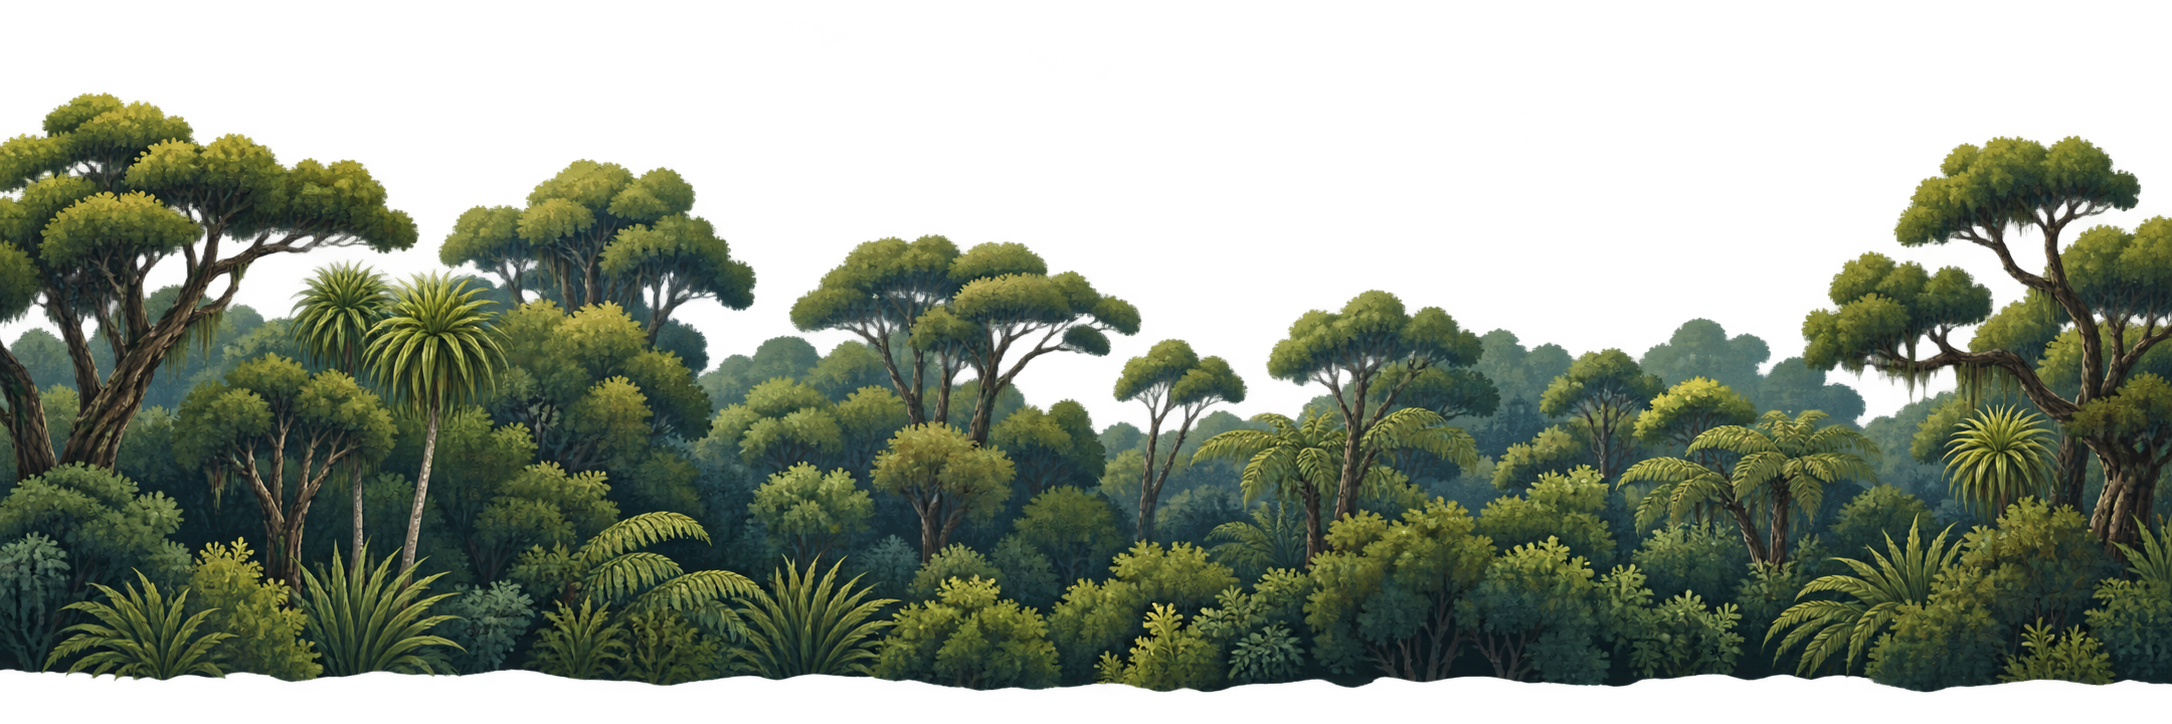
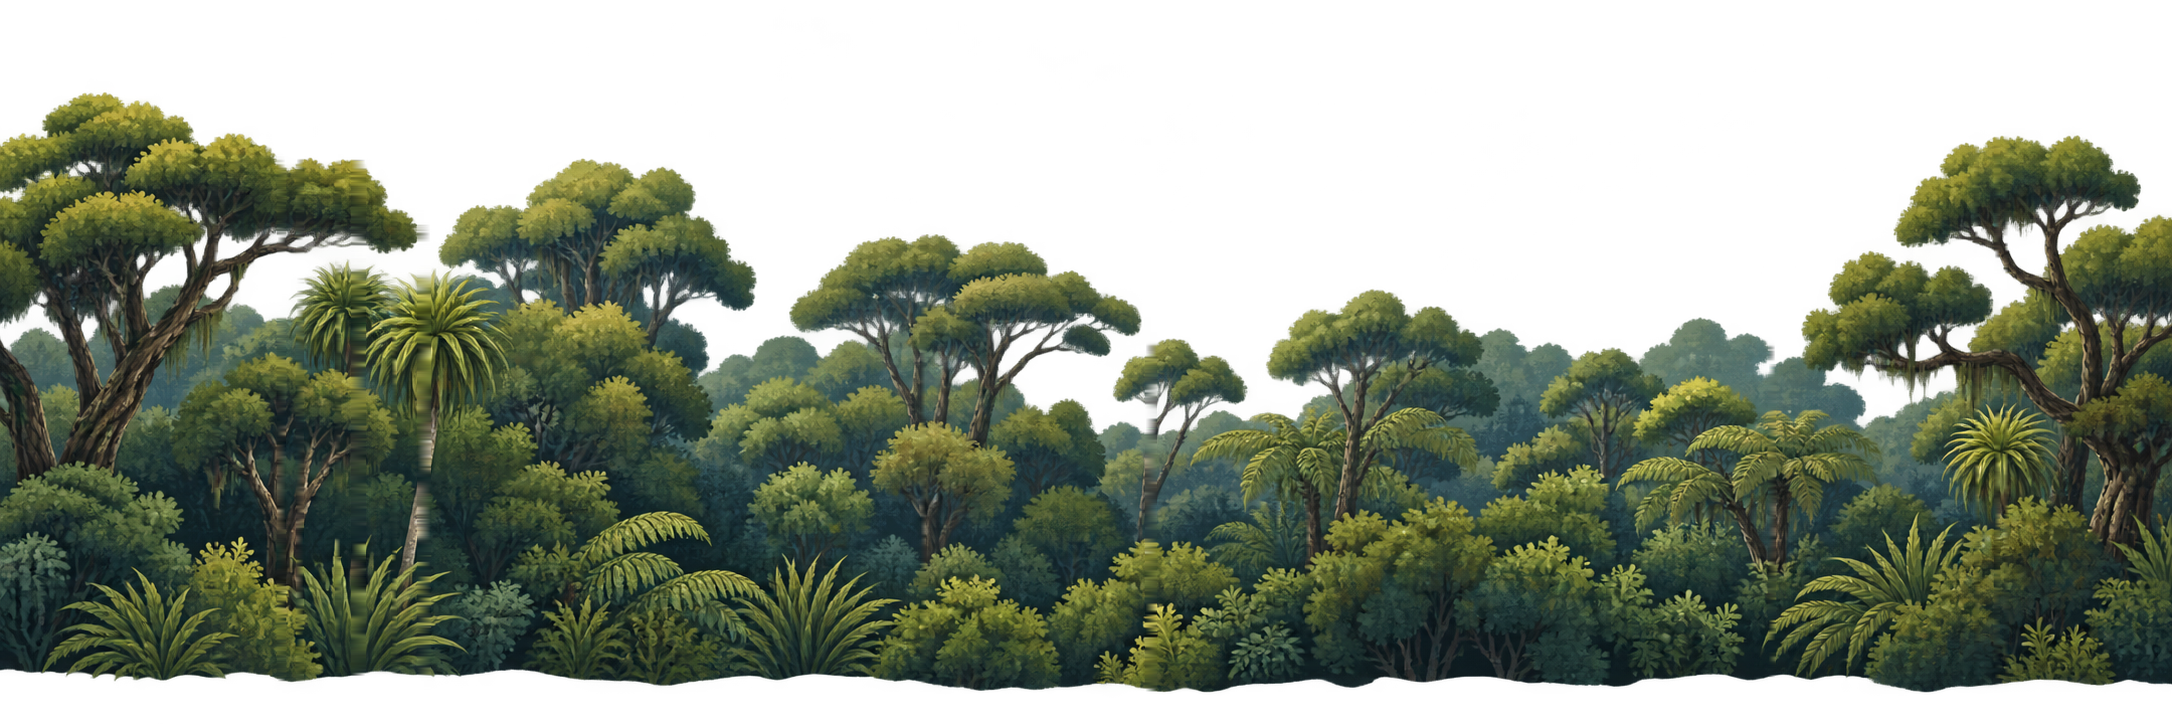
Finish Kaka wide-world mobile checkpoint (D12M.6)
Same world, different viewport: viewport width (view-w) is separated from a
stable 1440-wide gameplay world (WORLD_W). Trees sit at stable world coords
240/720/1200; the camera follows the ranger across the whole world and only
shows a different-width window per device. Ranger travel verified 480 -> 1416.

Old-640 assumptions audited/removed: movement clamp, camera clamp/dead zone,
tree positions, kaka spawn/target bounds, rat spawn side + march direction +
despawn, pick/berry spawn range, parallax offset. Fixtures updated and a new
self-test proves view-w never relocates actors and restart clears actors.

Left-side scenery stitch: traced per-layer (single drawImage each, full-image
source rect). It is a vertical content stitch baked into the native-bush
source PNG (layer 1 reproduces it alone); the renderer path is also hardened to
guarantee full coverage/one-image-per-layer at any viewport width.

RESTART on touch: act on pointerup directly (click de-duped), give the
game-over overlay pointer-events:auto (it inherited none from #status), and
keep controls clear of the OS gesture area.

Tests: kaka-test/render/damage/terminal/wave/life PASS, KAKA_WASM_TEST PASS,
frozen S1 unchanged.

diff --git a/demos/kaka/kaka-host.js b/demos/kaka/kaka-host.js
@@ -13,8 +13,8 @@
    * stale cached kaka.glon / kaka-draw.glon / wasm / PNG would keep an old
    * frame (e.g. the flat background or geometric actors) alive for minutes.
    * Bump this whenever published game assets change. */
-  var BUILD = "D12M.5";   /* human-visible label; SHA injected at deploy */
-  var VER = "d12m5";
+  var BUILD = "D12M.6";   /* human-visible label; SHA injected at deploy */
+  var VER = "d12m6";
   var ex = null;
   var dec = new TextDecoder();
   var enc = new TextEncoder();
@@ -66,9 +66,11 @@
    * The four generated PNGs are painted by JS; Glon owns the camera scalar it
    * emits as `B <cam>` (backgrounds + scroll gameplay) and `F <cam>`
    * (foreground). Factors are the presentation mapping of the supplied art to
-   * the requested depths. The art is 3:1 and each layer is drawn wider than the
-   * viewport, so the small +/-120 px camera pan never reaches an image edge:
-   * no tiling and no seams. Nothing here is gameplay. */
+   * the requested depths. The art is 3:1 and is drawn as one image per layer
+   * (no tiling, so no repeat seam). Each layer is anchored at world x=0 and
+   * scrolled by its factor; `paintLayer` guarantees the image always covers the
+   * whole viewport at any width, so a wide viewport can never expose an image
+   * edge or an uncovered strip. Nothing here is gameplay. */
   var LAYERS = [
     { src: "assets/ChatGPT Image Oct 6, 2026, 08_56_38 AM-1.png", factor: 0.12, h: 480, yb: 480, alpha: 1.0 },
     { src: "assets/ChatGPT Image Oct 6, 2026, 08_56_40 AM-2.png", factor: 0.35, h: 430, yb: 470, alpha: 1.0 },
@@ -94,11 +96,19 @@
     if (!img) return;
     var L = LAYERS[idx];
     var w = img.naturalWidth * (L.h / img.naturalHeight);
-    var x = (W - w) / 2 - cam * L.factor;
-    /* never expose an image edge when the viewport is very wide / panned far */
-    if (w >= W) x = Math.max(W - w, Math.min(0, x));
+    var dh = L.h;
+    /* Full coverage at ANY viewport width: if the layer is narrower than the
+       viewport, scale it up (same aspect) instead of exposing an uncovered
+       strip or an image edge. */
+    if (w < W) { var s = W / w; w *= s; dh *= s; }
+    /* Anchor at world x=0 (left edge at screen 0 when cam=0) and scroll by the
+       layer factor. x<=0 never exposes the left edge; the right clamp then
+       guarantees the right edge is never exposed either. One drawImage. */
+    var x = -cam * L.factor;
+    if (x > 0) x = 0;
+    if (x + w < W) x = W - w;
     ctx.globalAlpha = L.alpha;
-    ctx.drawImage(img, x, L.yb - L.h, w, L.h);
+    ctx.drawImage(img, x, L.yb - dh, w, dh);
     ctx.globalAlpha = 1;
   }
 
@@ -296,13 +306,32 @@
     requestAnimationFrame(frame);
   }
 
+  function fireGon(el) {
+    var tok = el.getAttribute("data-glon-event");
+    if (!tok) return;
+    try { ev(tok); } catch (err) { console.error("kaka: event failed", err); }
+    focusGame();
+  }
+  /* Buttons that map to a Glon event (RESTART during play, PLAY AGAIN after
+     game over). Pointer Events are the reliable mobile path, so act on
+     pointerup directly rather than assuming a synthesised click will arrive.
+     The trailing click is de-duplicated so one tap fires exactly one event;
+     `click` is kept as a fallback for keyboard/assistive activation. */
   function wireClicks() {
+    document.addEventListener("pointerup", function (e) {
+      var el = e.target && e.target.closest ? e.target.closest("[data-glon-event]") : null;
+      if (!el) return;
+      if (e.cancelable) e.preventDefault();
+      el.__glonFiredAt = Date.now();
+      fireGon(el);
+    });
     document.addEventListener("click", function (e) {
       var el = e.target && e.target.closest ? e.target.closest("[data-glon-event]") : null;
       if (!el) return;
       e.preventDefault();
-      ev(el.getAttribute("data-glon-event"));
-      focusGame();
+      /* pointerup already handled this press a moment ago */
+      if (el.__glonFiredAt && Date.now() - el.__glonFiredAt < 700) return;
+      fireGon(el);
     });
   }
 

diff --git a/demos/kaka/kaka.html b/demos/kaka/kaka.html
@@ -12,6 +12,7 @@
 <meta name="apple-mobile-web-app-status-bar-style" content="black-translucent">
 <meta name="apple-mobile-web-app-title" content="Kākā">
 <link rel="apple-touch-icon" href="assets/icon-192.png">
+<link rel="icon" href="assets/icon-192.png">
 <style>
   body { font: 15px/1.4 system-ui, sans-serif; margin: 1rem auto; max-width: 680px; background: #0b1020; color: #e8e8e8; }
   h1 { margin: .2rem 0; }
@@ -32,7 +33,10 @@
      visible behind it. */
   .kaka-gameover { position: fixed; inset: 0; z-index: 100; display: flex;
     align-items: center; justify-content: center; padding: 1rem;
-    background: rgba(6,3,12,.34); }
+    background: rgba(6,3,12,.34);
+    /* the overlay lives inside #status, which is pointer-events:none in
+       landscape; restore interaction so PLAY AGAIN is actually tappable */
+    pointer-events: auto; }
   .kaka-go-panel { display: flex; flex-direction: column; align-items: center;
     text-align: center; padding: clamp(.8rem,2.2vw,1.4rem) clamp(1.2rem,4vw,2.6rem);
     border-radius: 1rem; background: rgba(12,4,14,.8);
@@ -103,15 +107,21 @@
     /* canvas size is set by the host from the display aspect (variable width,
        480 tall) so a wide phone shows more world; JS sets inline width/height */
     #glon-canvas { position: absolute; left: 50%; top: 50%; transform: translate(-50%,-50%); border: 0; }
-    /* controls overlay the lower corners; they never shrink the canvas */
-    #kaka-touch { position: absolute; inset: 0; display: block; pointer-events: none; }
-    #kaka-touch .tc-left { position: absolute; left: .45rem; bottom: .45rem; display: flex;
+    /* controls overlay the lower corners; they never shrink the canvas. A
+       z-index keeps them above the canvas and env(safe-area-inset-bottom)
+       keeps the bottom buttons clear of the system home/gesture area, so a
+       tap on RESTART is not swallowed by the OS. */
+    #kaka-touch { position: absolute; inset: 0; display: block; pointer-events: none; z-index: 6; }
+    #kaka-touch .tc-left { position: absolute; left: .45rem;
+      bottom: calc(.45rem + env(safe-area-inset-bottom, 0px)); display: flex;
       gap: .5rem; pointer-events: auto; }
-    #kaka-touch .tc-right { position: absolute; right: .45rem; bottom: .45rem; display: flex;
+    #kaka-touch .tc-right { position: absolute; right: .45rem;
+      bottom: calc(.45rem + env(safe-area-inset-bottom, 0px)); display: flex;
       flex-direction: column; align-items: flex-end; gap: .5rem; pointer-events: auto; }
-    .tc-btn { padding: .85rem 1.1rem; font-size: 1.05rem; }
-    .build { position: absolute; left: 50%; bottom: .05rem; transform: translateX(-50%);
-      z-index: 7; margin: 0; font-size: .55rem; opacity: .5; pointer-events: none; }
+    .tc-btn { padding: .85rem 1.1rem; font-size: 1.05rem; pointer-events: auto; }
+    .build { position: absolute; left: 50%; bottom: calc(.08rem + env(safe-area-inset-bottom, 0px));
+      transform: translateX(-50%); z-index: 9; margin: 0; font-size: .62rem; opacity: .72;
+      color: #cfe3ff; text-shadow: 0 0 3px #000; pointer-events: none; white-space: nowrap; }
     .fs-btn { top: .1rem; right: .35rem; }
   }
 </style>
@@ -143,10 +153,10 @@
   <p class="muted">The kaka are native wildlife and must never be shot; berries divert them.
      Lasers only zap introduced rats. Arcade fiction: do not feed real wild kaka.
      &middot; <a href="../patrol/patrol.html">Glon Patrol</a></p>
-  <p class="build" id="kaka-build">Kākā D12M.5</p>
+  <p class="build" id="kaka-build">Kākā D12M.6</p>
   <button id="kaka-fs" class="fs-btn" type="button" hidden>FULLSCREEN</button>
 </div>
 <!-- KAKA_BUILD_SHA -->
-<script src="kaka-host.js?v=d12m5"></script>
+<script src="kaka-host.js?v=d12m6"></script>
 </body>
 </html>

diff --git a/demos/kaka/kaka_wave_tests.c b/demos/kaka/kaka_wave_tests.c
@@ -77,7 +77,7 @@ int main(void) {
 
     /* 3. a rat climbs the tree it reaches and gnaws it */
     run_source("reset");
-    run_source("ts-claim K_RAT block-set! ts-t 3 F_X 120 block-set! ts-t 3 F_Y 345 block-set! ts-t 3 F_STATE 0 block-set! ts-t 3 F_A 1");
+    run_source("ts-claim K_RAT block-set! ts-t 3 F_X 240 block-set! ts-t 3 F_Y 345 block-set! ts-t 3 F_STATE 0 block-set! ts-t 3 F_A 1 block-set! ts-t 3 F_D 1");
     ticks("rat-step ts-t 3", 60);
     check(run_int("block-at ts-t 3 F_Y") <= 250, "3 rat climbed the trunk (y<=250)");
     check(run_int("block-at ts-t 0 F_A") < 100, "3 climbed rat gnawed tree0");
@@ -85,25 +85,25 @@ int main(void) {
 
     /* 4. a climbing rat drives a feeding kaka off that tree */
     run_source("reset");
-    run_source("ts-claim K_KAKA block-set! ts-t 3 F_STATE KS_EAT block-set! ts-t 3 F_TARGET 0 block-set! ts-t 3 F_X 120 block-set! ts-t 3 F_Y 250 block-set! ts-t 3 F_A 0");
-    run_source("ts-claim K_RAT block-set! ts-t 4 F_X 120 block-set! ts-t 4 F_Y 345 block-set! ts-t 4 F_STATE 0 block-set! ts-t 4 F_A 1");
+    run_source("ts-claim K_KAKA block-set! ts-t 3 F_STATE KS_EAT block-set! ts-t 3 F_TARGET 0 block-set! ts-t 3 F_X 240 block-set! ts-t 3 F_Y 250 block-set! ts-t 3 F_A 0");
+    run_source("ts-claim K_RAT block-set! ts-t 4 F_X 240 block-set! ts-t 4 F_Y 345 block-set! ts-t 4 F_STATE 0 block-set! ts-t 4 F_A 1 block-set! ts-t 4 F_D 1");
     ticks("rat-step ts-t 4", 60);
     check(run_int("block-at ts-t 3 F_STATE") == 4 /*KS_LEAVE*/, "4 rat drove the feeding kaka off (KS_LEAVE)");
 
     /* 5. a live canopy absorbs a berry; open air does not; a dead tree does not */
     run_source("reset");
-    run_source("ts-claim K_BERRY block-set! ts-t 3 F_X 120 block-set! ts-t 3 F_Y 240 block-set! ts-t 3 F_VY -9");
+    run_source("ts-claim K_BERRY block-set! ts-t 3 F_X 240 block-set! ts-t 3 F_Y 240 block-set! ts-t 3 F_VY -9");
     run_source("berry-step ts-t 3");
     check(run_int("ts-count K_BERRY") == 0, "5 berry blocked by tree0 canopy");
 
     run_source("reset");
-    run_source("ts-claim K_BERRY block-set! ts-t 3 F_X 220 block-set! ts-t 3 F_Y 240 block-set! ts-t 3 F_VY -9");
+    run_source("ts-claim K_BERRY block-set! ts-t 3 F_X 420 block-set! ts-t 3 F_Y 240 block-set! ts-t 3 F_VY -9");
     run_source("berry-step ts-t 3");
     check(run_int("ts-count K_BERRY") == 1, "5 berry in open air is not blocked");
 
     run_source("reset");
     run_source("damage-tree 0 100");
-    run_source("ts-claim K_BERRY block-set! ts-t 3 F_X 120 block-set! ts-t 3 F_Y 240 block-set! ts-t 3 F_VY -9");
+    run_source("ts-claim K_BERRY block-set! ts-t 3 F_X 240 block-set! ts-t 3 F_Y 240 block-set! ts-t 3 F_VY -9");
     run_source("berry-step ts-t 3");
     check(run_int("ts-count K_BERRY") == 1, "5 dead tree does not block the berry");
 

diff --git a/demos/kaka/kaka_render_tests.c b/demos/kaka/kaka_render_tests.c
@@ -112,12 +112,12 @@ int main(void) {
     if (load_file("demos/kaka/kaka-wave.glon") != 0) return 2;
     if (run_source(OVERLAY) != 0) return 2;
 
-    const int X[3] = { 120, 320, 520 };   /* spawn-tree 0/1/2 world x */
+    const int X[3] = { 240, 720, 1200 };  /* spawn-tree 0/1/2 world x */
     int base[3], fails = 0;
 
     if (route("home") != 0) return 2;
     for (int i = 0; i < 3; i++) base[i] = foliage_near(X[i]);
-    printf("baseline foliage@[120,320,520] = [%d,%d,%d]\n", base[0], base[1], base[2]);
+    printf("baseline foliage@[240,720,1200] = [%d,%d,%d]\n", base[0], base[1], base[2]);
 
     for (int t = 0; t < 3; t++) {
         char tok[32];
@@ -125,7 +125,7 @@ int main(void) {
         if (route("home") != 0) return 2;         /* fresh reset */
         if (route(tok) != 0) return 2;            /* damage only tree t */
         int c0 = foliage_near(X[0]), c1 = foliage_near(X[1]), c2 = foliage_near(X[2]);
-        printf("damage tree %d -> foliage@[120,320,520] = [%d,%d,%d]\n", t, c0, c1, c2);
+        printf("damage tree %d -> foliage@[240,720,1200] = [%d,%d,%d]\n", t, c0, c1, c2);
         int c[3] = { c0, c1, c2 };
         for (int i = 0; i < 3; i++) {
             int changed = c[i] != base[i];
